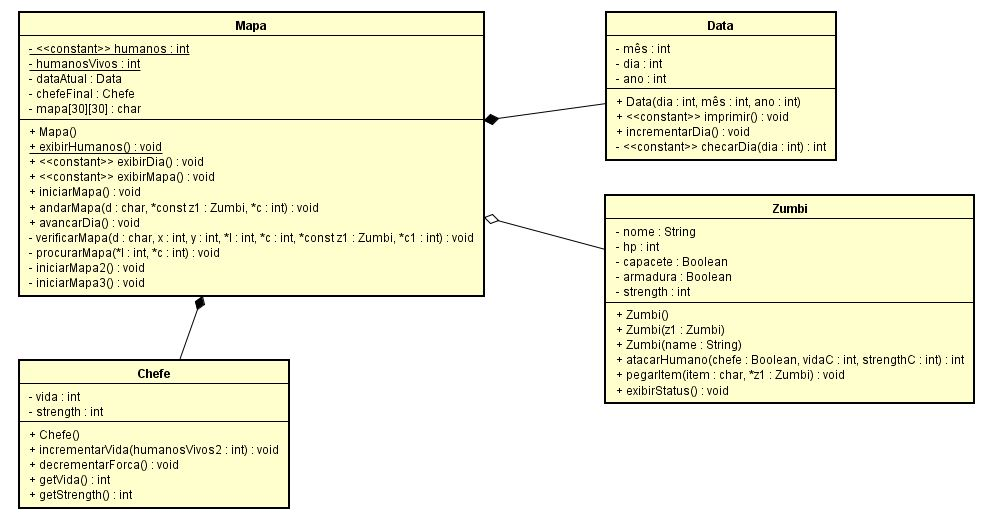
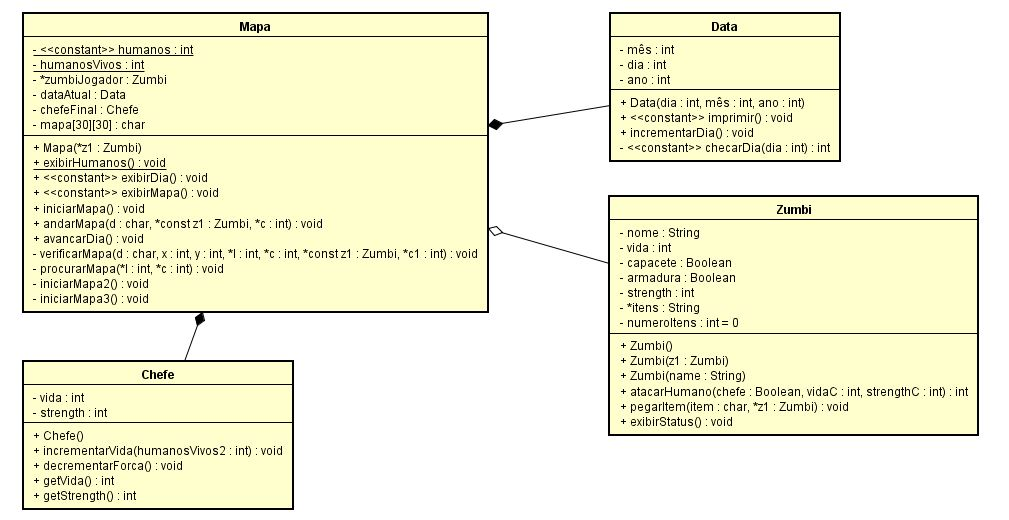
Classe "Zumbi" agregada à classe "Mapa", método "pegarItem" em "Zumbi.cpp" modificado para ser implantado o array com alocação dinâmica. Diagrama UML atualizado.

Changed region(s): [[0.0, 0.0, 0.996, 0.8615], [0.5602, 0.0, 0.8404, 0.3077], [0.0, 0.6769, 0.2801, 0.9846]]

diff --git a/Mapa.cpp b/Mapa.cpp
@@ -8,7 +8,8 @@
 const int Mapa::humanos=1;
 int Mapa::humanosVivos=humanos;
 
-Mapa::Mapa():dataAtual(16,02,2016),chefeFinal(){
+Mapa::Mapa(Zumbi *z2):dataAtual(16,02,2016),chefeFinal(){
+    this->zumbiJogador=z2;
 }
 
 void Mapa::exibirHumanos(){
@@ -187,12 +188,12 @@ void Mapa::exibirMapa() const{
 	}
 }
 
-void Mapa::andarMapa(char d, Zumbi *const z1, int *c){
+void Mapa::andarMapa(char d, int *c){
 	int x, y, cfases=1;
 	    procurarMapa(&x,&y);
 	    do{
 	    system("cls");
-		verificarMapa(d,x,y,&x,&y,z1,c);
+		verificarMapa(d,x,y,&x,&y,c);
 		exibirMapa();
 		if ((*c==humanos) && (cfases==1)){
 			avancarDia();
@@ -224,7 +225,7 @@ void Mapa::procurarMapa(int *l, int *c){
 	}
 }
 
-void Mapa::verificarMapa(char d, int x, int y, int *l, int *c, Zumbi *const z1, int *c1){
+void Mapa::verificarMapa(char d, int x, int y, int *l, int *c, int *c1){
 	int v;
 	bool chefe=false;    
 	switch(d){
@@ -235,7 +236,7 @@ void Mapa::verificarMapa(char d, int x, int y, int *l, int *c, Zumbi *const z1, 
 			    *l=x+1;
 			    *c=y-1;
 			}else if(mapa[x+1][y-1]=='H'){
-				v=z1->atacarHumano(chefe,chefeFinal.getVida(),chefeFinal.getStrength());
+				v=zumbiJogador->atacarHumano(chefe,chefeFinal.getVida(),chefeFinal.getStrength());
 				if (v==1){
 				*c1=*c1+1;
                 humanosVivos--;
@@ -248,11 +249,11 @@ void Mapa::verificarMapa(char d, int x, int y, int *l, int *c, Zumbi *const z1, 
 			    exit(0);
                 }
 			}else if((mapa[x+1][y-1]=='A') || (mapa[x+1][y-1]=='C')){
-				z1->pegarItem(mapa[x+1][y-1]);
+				zumbiJogador->pegarItem(mapa[x+1][y-1]);
 				mapa[x+1][y-1]='1';
 			}else if (mapa[x+1][y-1]=='B'){
 				chefe=true;
-				v=z1->atacarHumano(chefe,chefeFinal.getVida(),chefeFinal.getStrength());
+				v=zumbiJogador->atacarHumano(chefe,chefeFinal.getVida(),chefeFinal.getStrength());
 				if (v==1)
 			    mapa[x+1][y-1]='Z';
 				else if (v==0){
@@ -270,7 +271,7 @@ void Mapa::verificarMapa(char d, int x, int y, int *l, int *c, Zumbi *const z1, 
 			    mapa[x][y]='1';
 			    *l=x+1;
 			}else if(mapa[x+1][y]=='H'){
-				v=z1->atacarHumano(chefe,chefeFinal.getVida(),chefeFinal.getStrength());
+				v=zumbiJogador->atacarHumano(chefe,chefeFinal.getVida(),chefeFinal.getStrength());
 				if (v==1){
 				*c1=*c1+1;
                 humanosVivos--;
@@ -283,11 +284,11 @@ void Mapa::verificarMapa(char d, int x, int y, int *l, int *c, Zumbi *const z1, 
 			    exit(0);
                 }
 		    }else if((mapa[x+1][y]=='A') || (mapa[x+1][y]=='C')){
-				z1->pegarItem(mapa[x+1][y]);
+				zumbiJogador->pegarItem(mapa[x+1][y]);
 				mapa[x+1][y]='1';
 			}else if (mapa[x+1][y]=='B'){
 				chefe=true;
-				v=z1->atacarHumano(chefe,chefeFinal.getVida(),chefeFinal.getStrength());
+				v=zumbiJogador->atacarHumano(chefe,chefeFinal.getVida(),chefeFinal.getStrength());
 				if (v==1)
 			    mapa[x+1][y-1]='Z';
 				else if (v==0){
@@ -304,7 +305,7 @@ void Mapa::verificarMapa(char d, int x, int y, int *l, int *c, Zumbi *const z1, 
 			    *l=x+1;
 			    *c=y+1;
 			}else if(mapa[x+1][y+1]=='H'){
-				v=z1->atacarHumano(chefe,chefeFinal.getVida(),chefeFinal.getStrength());
+				v=zumbiJogador->atacarHumano(chefe,chefeFinal.getVida(),chefeFinal.getStrength());
 				if (v==1){
 				*c1=*c1+1;
                 humanosVivos--;
@@ -317,11 +318,11 @@ void Mapa::verificarMapa(char d, int x, int y, int *l, int *c, Zumbi *const z1, 
 			    exit(0);
                 }
 		    }else if((mapa[x+1][y+1]=='A') || (mapa[x+1][y+1]=='C')){
-				z1->pegarItem(mapa[x+1][y+1]);
+				zumbiJogador->pegarItem(mapa[x+1][y+1]);
 				mapa[x+1][y+1]='1';
 			}else if (mapa[x+1][y+1]=='B'){
 				chefe=true;
-				v=z1->atacarHumano(chefe,chefeFinal.getVida(),chefeFinal.getStrength());
+				v=zumbiJogador->atacarHumano(chefe,chefeFinal.getVida(),chefeFinal.getStrength());
 				if (v==1)
 			    mapa[x+1][y-1]='Z';
 				else if (v==0){
@@ -339,7 +340,7 @@ void Mapa::verificarMapa(char d, int x, int y, int *l, int *c, Zumbi *const z1, 
 			    mapa[x][y]='1';
 			    *c=y-1;
 			}else if(mapa[x][y-1]=='H'){
-				v=z1->atacarHumano(chefe,chefeFinal.getVida(),chefeFinal.getStrength());
+				v=zumbiJogador->atacarHumano(chefe,chefeFinal.getVida(),chefeFinal.getStrength());
 				if (v==1){
 				*c1=*c1+1;
                 humanosVivos--;
@@ -352,11 +353,11 @@ void Mapa::verificarMapa(char d, int x, int y, int *l, int *c, Zumbi *const z1, 
 			    exit(0);
                 }
 		    }else if((mapa[x][y-1]=='A') || (mapa[x][y-1]=='C')){
-				z1->pegarItem(mapa[x][y-1]);
+				zumbiJogador->pegarItem(mapa[x][y-1]);
 				mapa[x][y-1]='1';
 			}else if (mapa[x][y-1]=='B'){
 				chefe=true;
-				v=z1->atacarHumano(chefe,chefeFinal.getVida(),chefeFinal.getStrength());
+				v=zumbiJogador->atacarHumano(chefe,chefeFinal.getVida(),chefeFinal.getStrength());
 				if (v==1)
 			    mapa[x+1][y-1]='Z';
 				else if (v==0){
@@ -374,7 +375,7 @@ void Mapa::verificarMapa(char d, int x, int y, int *l, int *c, Zumbi *const z1, 
 			    mapa[x][y]='1';
 			    *c=y+1;
 			}else if(mapa[x][y+1]=='H'){
-				v=z1->atacarHumano(chefe,chefeFinal.getVida(),chefeFinal.getStrength());
+				v=zumbiJogador->atacarHumano(chefe,chefeFinal.getVida(),chefeFinal.getStrength());
 				if (v==1){
 				*c1=*c1+1;
                 humanosVivos--;
@@ -387,11 +388,11 @@ void Mapa::verificarMapa(char d, int x, int y, int *l, int *c, Zumbi *const z1, 
 			    exit(0);
                 }
 		    }else if((mapa[x][y+1]=='A') || (mapa[x][y+1]=='C')){
-				z1->pegarItem(mapa[x][y+1]);
+				zumbiJogador->pegarItem(mapa[x][y+1]);
 				mapa[x][y+1]='1';
 			}else if (mapa[x][y+1]=='B'){
 				chefe=true;
-				v=z1->atacarHumano(chefe,chefeFinal.getVida(),chefeFinal.getStrength());
+				v=zumbiJogador->atacarHumano(chefe,chefeFinal.getVida(),chefeFinal.getStrength());
 				if (v==1)
 			    mapa[x+1][y-1]='Z';
 				else if (v==0){
@@ -408,7 +409,7 @@ void Mapa::verificarMapa(char d, int x, int y, int *l, int *c, Zumbi *const z1, 
 			    *l=x-1;
 			    *c=y-1;
 			}else if(mapa[x-1][y-1]=='H'){
-				v=z1->atacarHumano(chefe,chefeFinal.getVida(),chefeFinal.getStrength());
+				v=zumbiJogador->atacarHumano(chefe,chefeFinal.getVida(),chefeFinal.getStrength());
 				if (v==1){
 				*c1=*c1+1;
                 humanosVivos--;
@@ -421,11 +422,11 @@ void Mapa::verificarMapa(char d, int x, int y, int *l, int *c, Zumbi *const z1, 
 			    exit(0);
                 }
 		    }else if((mapa[x-1][y-1]=='A') || (mapa[x-1][y-1]=='C')){
-				z1->pegarItem(mapa[x-1][y-1]);
+				zumbiJogador->pegarItem(mapa[x-1][y-1]);
 				mapa[x-1][y-1]='1';
 			}else if (mapa[x-1][y-1]=='B'){
 				chefe=true;
-				v=z1->atacarHumano(chefe,chefeFinal.getVida(),chefeFinal.getStrength());
+				v=zumbiJogador->atacarHumano(chefe,chefeFinal.getVida(),chefeFinal.getStrength());
 				if (v==1)
 			    mapa[x+1][y-1]='Z';
 				else if (v==0){
@@ -443,7 +444,7 @@ void Mapa::verificarMapa(char d, int x, int y, int *l, int *c, Zumbi *const z1, 
 			    mapa[x][y]='1';
 			    *l=x-1;
 			}else if(mapa[x-1][y]=='H'){
-				v=z1->atacarHumano(chefe,chefeFinal.getVida(),chefeFinal.getStrength());
+				v=zumbiJogador->atacarHumano(chefe,chefeFinal.getVida(),chefeFinal.getStrength());
 				if (v==1){
 				*c1=*c1+1;
                 humanosVivos--;
@@ -456,11 +457,11 @@ void Mapa::verificarMapa(char d, int x, int y, int *l, int *c, Zumbi *const z1, 
 			    exit(0);
                 }
 		    }else if((mapa[x-1][y]=='A') || (mapa[x-1][y]=='C')){
-				z1->pegarItem(mapa[x-1][y]);
+				zumbiJogador->pegarItem(mapa[x-1][y]);
                 mapa[x-1][y]='1';
 			}else if (mapa[x-1][y]=='B'){
 				chefe=true;
-				v=z1->atacarHumano(chefe,chefeFinal.getVida(),chefeFinal.getStrength());
+				v=zumbiJogador->atacarHumano(chefe,chefeFinal.getVida(),chefeFinal.getStrength());
 				if (v==1)
 			    mapa[x+1][y-1]='Z';
 				else if (v==0){
@@ -477,7 +478,7 @@ void Mapa::verificarMapa(char d, int x, int y, int *l, int *c, Zumbi *const z1, 
 			    *l=x-1;
 			    *c=x+1;
 			}else if(mapa[x-1][y+1]=='H'){
-				v=z1->atacarHumano(chefe,chefeFinal.getVida(),chefeFinal.getStrength());
+				v=zumbiJogador->atacarHumano(chefe,chefeFinal.getVida(),chefeFinal.getStrength());
 				if (v==1){
 				*c1=*c1+1;
                 humanosVivos--;
@@ -490,11 +491,11 @@ void Mapa::verificarMapa(char d, int x, int y, int *l, int *c, Zumbi *const z1, 
 			    exit(0);
 			    }
 		    }else if((mapa[x-1][y+1]=='A') || (mapa[x-1][y+1]=='C')){
-				z1->pegarItem(mapa[x-1][y+1]);
+				zumbiJogador->pegarItem(mapa[x-1][y+1]);
 				mapa[x-1][y+1]='1';
 			}else if (mapa[x-1][y+1]=='B'){
 				chefe=true;
-				v=z1->atacarHumano(chefe,chefeFinal.getVida(),chefeFinal.getStrength());
+				v=zumbiJogador->atacarHumano(chefe,chefeFinal.getVida(),chefeFinal.getStrength());
 				if (v==1)
 			    mapa[x+1][y-1]='Z';
 				else if (v==0){

diff --git a/Zumbi.cpp b/Zumbi.cpp
@@ -1,5 +1,6 @@
 #include "Zumbi.h"
 #include <random>
+#include <string>
 #include <ctime>
 #include <iostream>
 #include <conio.h>
@@ -8,70 +9,66 @@
 
 Zumbi::Zumbi(){
 	this->nome="Sem nome";
-    this->hp=5000;
+    this->vida=5000;
     this->armadura=false;
     this->capacete=false;
     this->strength=300;
-    itens = new string[numeroItens];
+    itens=new string[numeroItens];
 }
 
 Zumbi::Zumbi(const Zumbi &z1){
 	nome=z1.nome;
-	hp=z1.hp;
+	vida=z1.vida;
 	armadura=z1.armadura;
 	capacete=z1.capacete;
 	strength=z1.strength;
+    itens=z1.itens;
 }
 
 Zumbi::Zumbi(const string &name){
 	this->nome=name;
-    this->hp=5000;
+    this->vida=5000;
     this->armadura=false;
     this->capacete=false;
     this->strength=300;
+    itens=new string[numeroItens];
 }
 
 void Zumbi::exibirStatus() const{
-    cout << "Pontos de vida: " << hp;
+    cout << "Pontos de vida: " << vida;
     cout << "\nForca: " << strength;
     for(int i=0;i<numeroItens;i++){
-        cout << "possui " << itens[i] << ";";
+        cout << "\nPossui " << itens[i] << ";";
     }
 }
 
 void Zumbi::setA(){
 	armadura=true;
-    hp=hp+500;
+    vida=vida+500;
 }
 
 void Zumbi::setC(){
 	capacete=true;
-    hp=hp+200;
+    vida=vida+200;
 }
 
 void Zumbi::pegarItem(char item){
-    string *aux = new string[numeroItens];
-    if(numeroItens>0){
-        for (int i=0;i<numeroItens;i++){
-            aux[i] = itens[i];
-        }
+    
+    string *aux = new string[++numeroItens];
+    
+    for (int i=0;i<numeroItens-1;i++){
+        aux[i] = itens[i];
     }
     
     delete [] itens;
     
-    itens = new string[++numeroItens];
-    
-    if((numeroItens-1)!=0){
-    	for (int i=0;i<numeroItens-1;i++){
-            itens[i] = aux[i];
-        }
-	}
+    string itemAtual;
     
 	switch(item){
 		case 'C':
 			cout << "Voce pegou um capacete, +200 de vida.";
 			setC();
-            itens[numeroItens-1] = "capacete";
+            itemAtual = "capacete";
 			do{
 				cin.get();
 			    }while(cin.get()!='\n');
@@ -80,18 +77,19 @@ void Zumbi::pegarItem(char item){
 		case 'A':
 			cout << "Voce pegou uma armadura, +500 de vida.";
 			setA();
-            itens[numeroItens-1] = "armadura";
+            itemAtual = "armadura";
 			do{
 				cin.get();
 			    }while(cin.get()!='\n');
 			system("cls");
 			break;
 	}
-	delete [] aux;
+    aux[numeroItens-1] = itemAtual;
+	itens = aux;
 }
 
 int Zumbi::atacarHumano(bool chefe, int vidaC, int strengthC){
-	int VidaH=vh, VidaZ=hp, Sh=200, Sz=strength, maismenos, atk, total;
+	int VidaH=vh, VidaZ=vida, Sh=200, Sz=strength, maismenos, atk, total;
 	char opt;
     string nomeH = "Humano";
     if (chefe){

diff --git a/Mapa.h b/Mapa.h
@@ -7,21 +7,22 @@
 
 class Mapa{
 	public:
-		Mapa();
+		Mapa(Zumbi*);
 		void iniciarMapa();
         static void exibirHumanos();
 		void exibirMapa() const;
         void exibirDia() const;
-        void andarMapa(char,Zumbi *const,int *);
+        void andarMapa(char,int *);
         void avancarDia();
 	private:
-        void verificarMapa(char,int,int,int *,int *,Zumbi *const,int *);
+        void verificarMapa(char,int,int,int *,int *,int *);
         void procurarMapa(int *,int *); 
 		void iniciarMapa2();
 		void iniciarMapa3();
 		char mapa[30][30];
         static const int humanos;
         static int humanosVivos;
+        Zumbi *zumbiJogador;
         Data dataAtual;
         Chefe chefeFinal;
 };

diff --git a/main.cpp b/main.cpp
@@ -2,6 +2,7 @@
 #include <conio.h>
 #include <windows.h>
 #include "Mapa.h"
+#include <string>
 
 using namespace std;
 
@@ -18,7 +19,7 @@ int main(){
 	
 	Zumbi z1(nome);
 	
-    Mapa m1;
+    Mapa m1(&z1);
     
 	m1.iniciarMapa();
 
@@ -48,7 +49,7 @@ void escolha(char op, int *c, Zumbi *const z1, Mapa *const m1){
 			m1->exibirMapa();
 			cout << "\nUse o numpad para andar: ";
 			d=getche();
-			m1->andarMapa(d,z1,c);
+			m1->andarMapa(d,c);
 			break;
 		case '3':
             system("cls");

diff --git a/Zumbi.h b/Zumbi.h
@@ -17,7 +17,7 @@ class Zumbi{
 		void setC();
 		void setA();      
 		string nome;
-		int strength, hp;
+		int strength, vida;
 		bool capacete, armadura;
         string *itens;
         int numeroItens=0;
